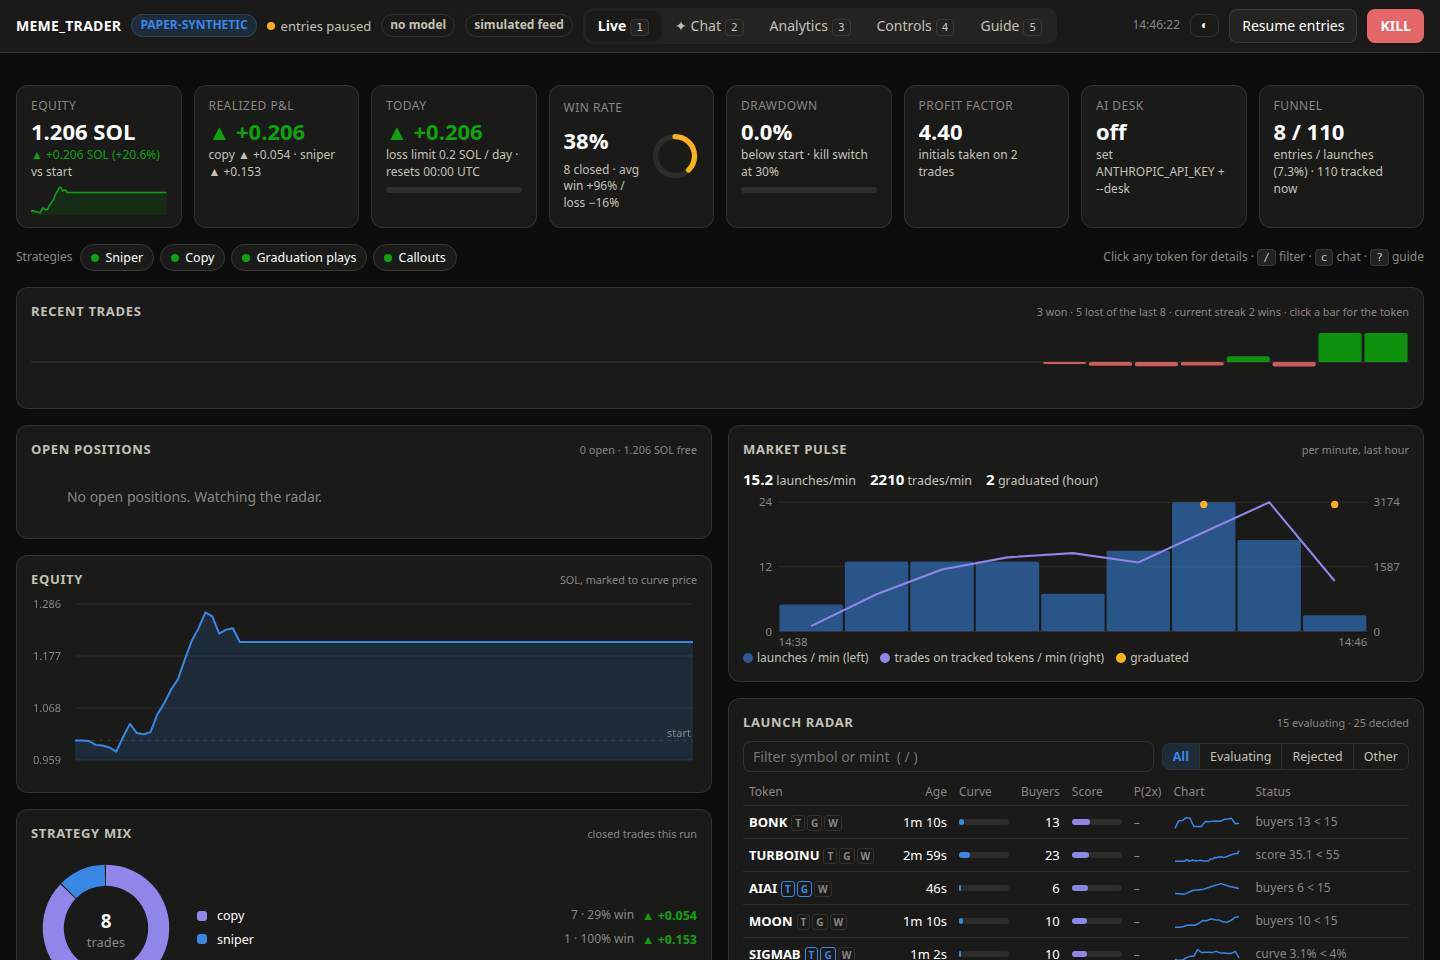
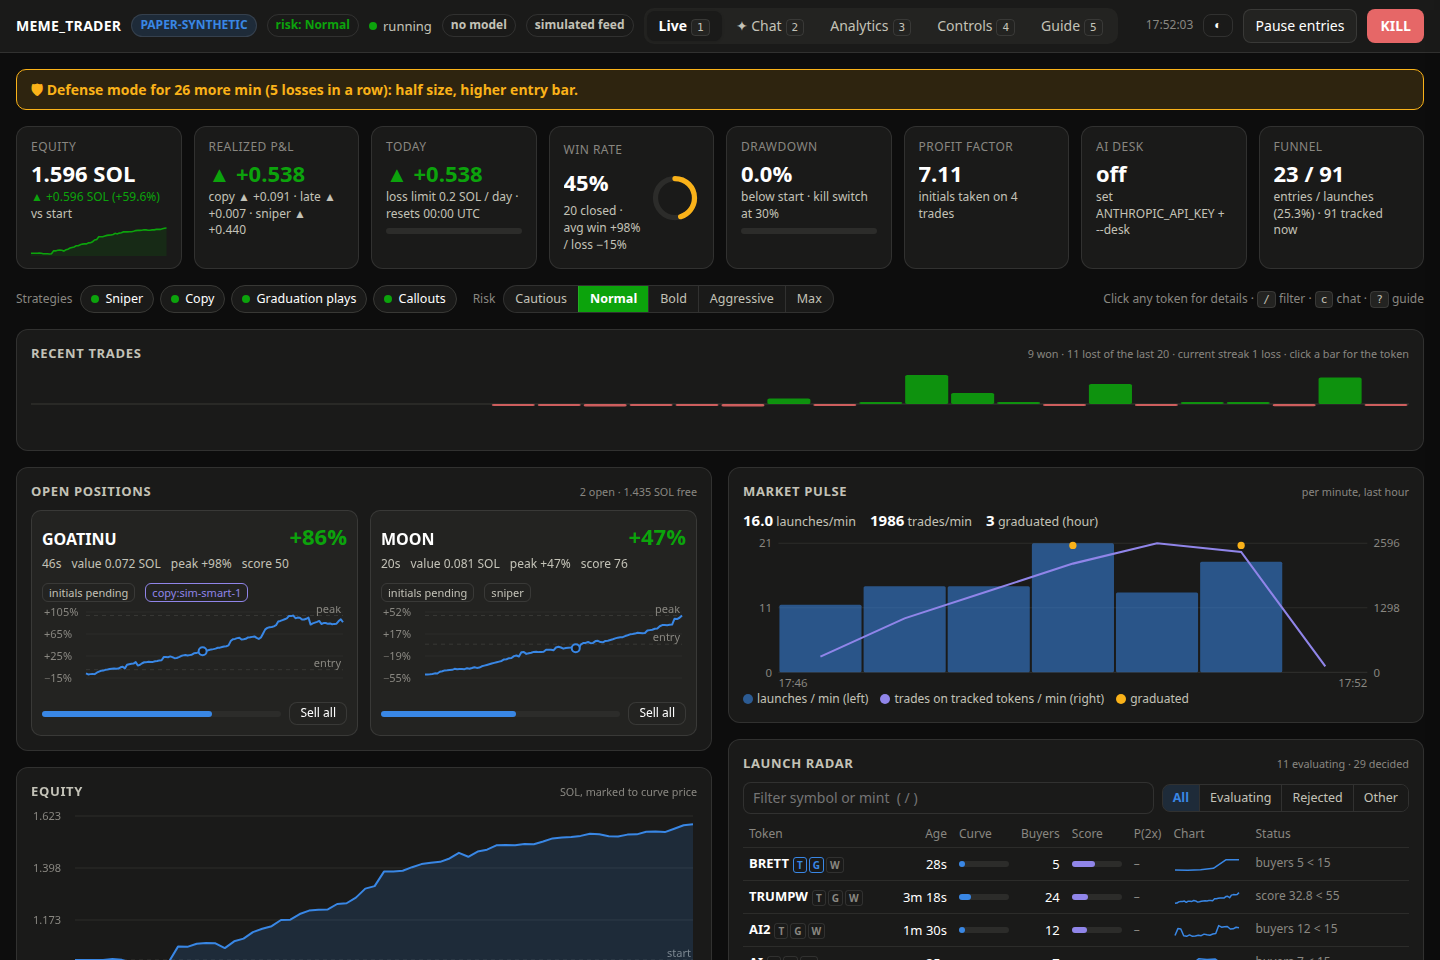
Refresh README screenshots; log the owner's decision to leave it running
New Live and Analytics screenshots (risk dial, market pulse, P&L by strategy
and exit reason), captioned as the simulated demo. BUILD_LOG #19: graduation-v1
keeps collecting its holdout, no v2 or paid infrastructure for now, and any
funds for a future capped pilot come from the existing PumpPortal wallet with
the owner's go-ahead.

Claude-Session: https://claude.ai/code/session_01EjBcHYXxgtty6rS7kqSi6q

diff --git a/docs/BUILD_LOG.md b/docs/BUILD_LOG.md
@@ -4,6 +4,17 @@ A running record of decisions, research, parameters and status. Newest entries a
 
 ---
 
+## 2026-10-03 — Entry #19: Owner decision: leave it running
+
+- graduation-v1 keeps collecting its holdout untouched; `research final graduation-v1` gives the verdict once there are 14 days and 150 trades (around 2026-10-17).
+- The paper bot keeps trading graduation plays only, with the realistic 2.5 s order delay, the risk dial at Normal, copy trading off and agent buys off.
+- **No version 2 for now.** The development data says graduation-v1 loses at realistic delays (#18).
+- **No paid infrastructure yet.**
+- If funds are ever needed (for example a capped live pilot to measure real landing times), they come from the wallet already funded for PumpPortal, and only with the owner's explicit go-ahead. Its address stays out of the repo.
+- README screenshots refreshed (risk dial, market pulse, P&L by strategy and exit reason), captioned as the simulated demo.
+
+---
+
 ## 2026-10-03 — Entry #18: Execution measurement: with a realistic delay, graduation-v1 loses
 
 ### Built

diff --git a/README.md b/README.md
@@ -146,11 +146,13 @@ The limits live in the bot, not in the prompt:
 
 ## Screenshots
 
-| Live: money, positions, market pulse | Chat: ask, approve actions, paste a contract address |
+| Live: risk dial, positions, market pulse | Chat: ask, approve actions, paste a contract address |
 |---|---|
 | ![Live view](docs/img/live.png) | ![Chat with Claude](docs/img/chat.png) |
-| **Token detail: every gate, live** | **Analytics: what's working and what isn't** |
+| **Token detail: every gate, live** | **Analytics: P&L by strategy and exit reason** |
 | ![Token detail with gate checklist](docs/img/token-detail.png) | ![Analytics view](docs/img/analytics.png) |
+
+Screenshots are from the built-in demo (`scripts/start.sh demo`, a simulated market), so the profits in them aren't results. Real results are under [Results so far](#results-so-far).
 
 ## Configuration
 
